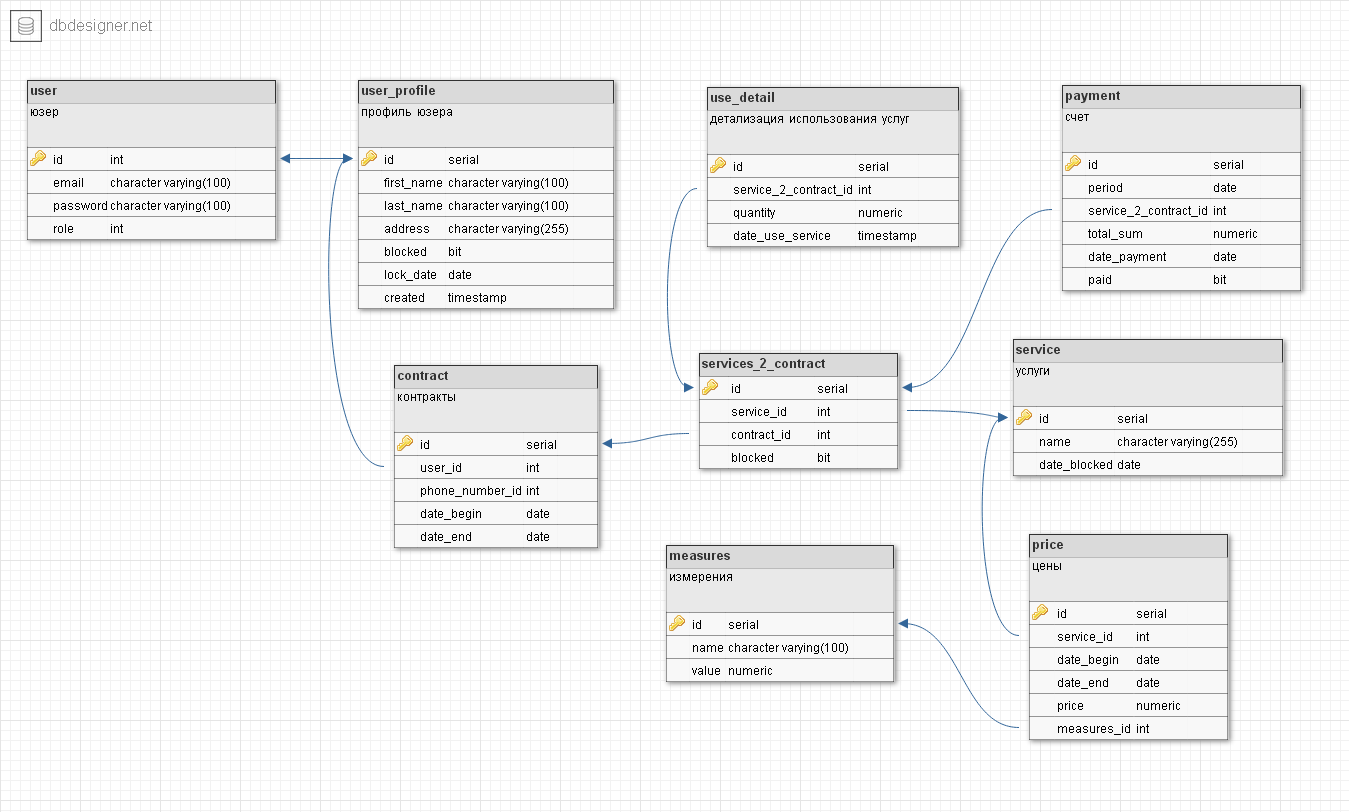
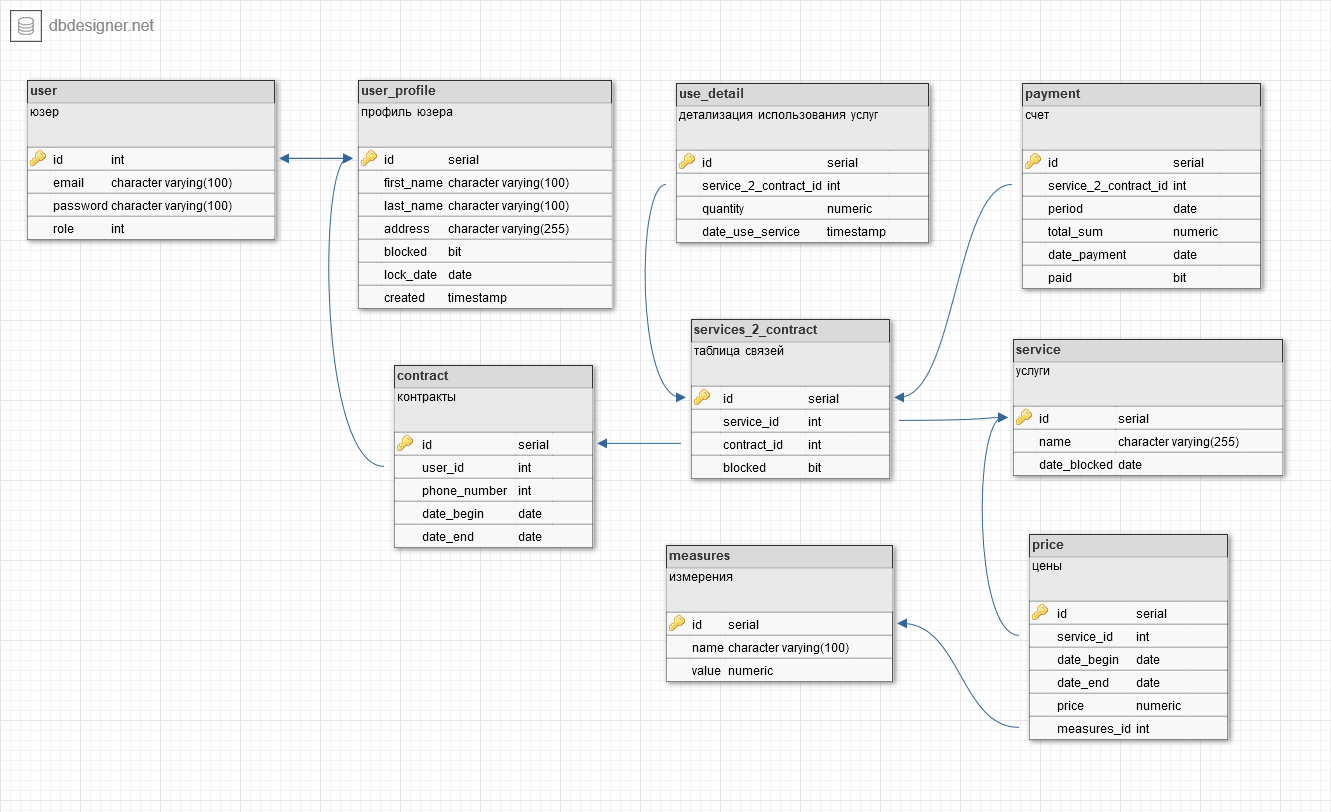
no message

diff --git a/datamodel/src/main/java/by/mk/training/phonestation/datamodel/Price.java b/datamodel/src/main/java/by/mk/training/phonestation/datamodel/Price.java
@@ -1,13 +1,14 @@
 package by.mk.training.phonestation.datamodel;
 
 import java.util.Date;
+import java.math.BigDecimal;
 
 public class Price extends AbstractModel {
 
 	private Service service;
 	private Date dateBegin;
 	private Date dateEnd;
-	private Double price;
+	private BigDecimal price;
 	private Measures measures;
 
 	public Service getService() {
@@ -34,11 +35,11 @@ public class Price extends AbstractModel {
 		this.dateEnd = dateEnd;
 	}
 
-	public Double getPrice() {
+	public BigDecimal getPrice() {
 		return price;
 	}
 
-	public void setPrice(Double price) {
+	public void setPrice(BigDecimal price) {
 		this.price = price;
 	}
 

diff --git a/datamodel/src/main/java/by/mk/training/phonestation/datamodel/Contract.java b/datamodel/src/main/java/by/mk/training/phonestation/datamodel/Contract.java
@@ -6,7 +6,7 @@ import java.util.Set;
 public class Contract extends AbstractModel {
 
 	private UserProfile user;
-	private PhoneNumber phoneNumber;
+	private int phoneNumber;
 	private Date dateBegin;
 	private Date dateEnd;
 	private Set<Service> service;
@@ -19,11 +19,11 @@ public class Contract extends AbstractModel {
 		this.user = user;
 	}
 
-	public PhoneNumber getPhoneNumber() {
+	public int getPhoneNumber() {
 		return phoneNumber;
 	}
 
-	public void setPhoneNumber(PhoneNumber phoneNumber) {
+	public void setPhoneNumber(int phoneNumber) {
 		this.phoneNumber = phoneNumber;
 	}
 

diff --git a/datamodel/src/main/java/by/mk/training/phonestation/datamodel/Payment.java b/datamodel/src/main/java/by/mk/training/phonestation/datamodel/Payment.java
@@ -10,6 +10,7 @@ public class Payment extends AbstractModel {
 	private BigDecimal paySum;
 	private Date period;
 	private ServiceContract serviceContract;
+	private Boolean paid;
 
 	public BigDecimal getTotalSum() {
 		return totalSum;
@@ -49,5 +50,13 @@ public class Payment extends AbstractModel {
 
 	public void setServiceContract(ServiceContract serviceContract) {
 		this.serviceContract = serviceContract;
+	}
+
+	public Boolean getPaid() {
+		return paid;
+	}
+
+	public void setPaid(Boolean paid) {
+		this.paid = paid;
 	}
 }

diff --git a/datamodel/src/main/java/by/mk/training/phonestation/datamodel/User.java b/datamodel/src/main/java/by/mk/training/phonestation/datamodel/User.java
@@ -5,7 +5,6 @@ public class User extends AbstractModel {
 	private UserProfile profile;
 	private String email;
 	private String password;
-	private String login;
 	private UserRole role;
 
 	public UserProfile getProfile() {
@@ -30,14 +29,6 @@ public class User extends AbstractModel {
 
 	public void setPassword(String password) {
 		this.password = password;
-	}
-
-	public String getLogin() {
-		return login;
-	}
-
-	public void setLogin(String login) {
-		this.login = login;
 	}
 
 	public UserRole getRole() {
